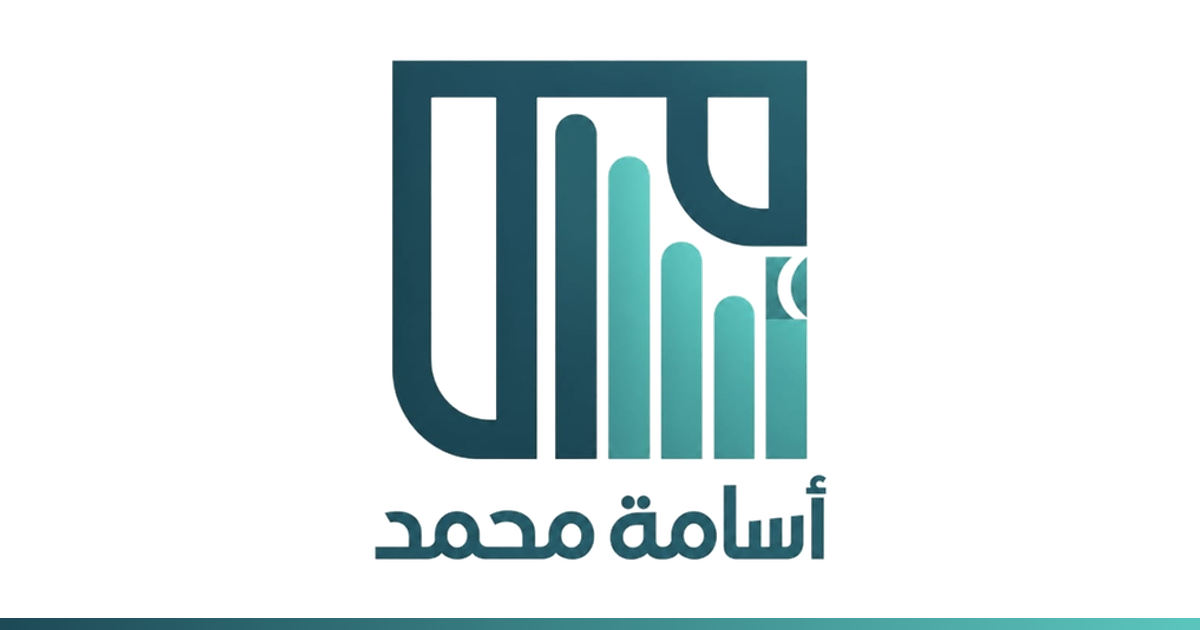
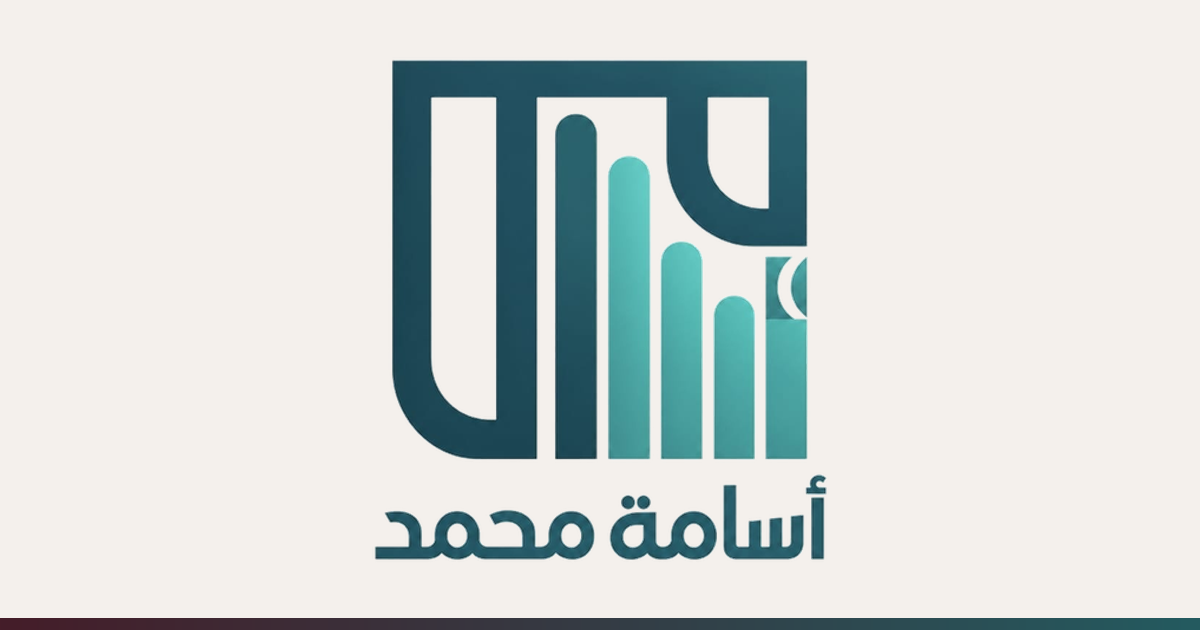
New identity: burgundy and deep peacock palette

Changed region(s): [[0.0, 0.9651, 1.0, 1.0]]

diff --git a/index.html b/index.html
@@ -9,37 +9,37 @@
 <meta property="og:description" content="مواقع، تطبيقات، أنظمة، منصات، تصميم ومونتاج.">
 <meta property="og:type" content="website">
 <meta property="og:site_name" content="أسامة محمد البتيت">
-<meta property="og:image" content="https://osamah-cv.web.app/og.png?v=2">
-<meta property="og:image:secure_url" content="https://osamah-cv.web.app/og.png?v=2">
+<meta property="og:image" content="https://osamah-cv.web.app/og.png?v=3">
+<meta property="og:image:secure_url" content="https://osamah-cv.web.app/og.png?v=3">
 <meta property="og:image:type" content="image/png">
 <meta property="og:image:width" content="1200">
 <meta property="og:image:height" content="630">
 <meta property="og:image:alt" content="شعار أسامة محمد">
-<meta name="twitter:image" content="https://osamah-cv.web.app/og.png?v=2">
+<meta name="twitter:image" content="https://osamah-cv.web.app/og.png?v=3">
 <link rel="apple-touch-icon" href="og-square.png">
 <meta property="og:url" content="https://osamah-cv.web.app/">
 <meta name="twitter:card" content="summary_large_image">
-<meta name="theme-color" content="#1E4A57">
+<meta name="theme-color" content="#451D29">
 <link rel="icon" type="image/png" href="logo-mark.png">
 <link rel="preconnect" href="https://fonts.googleapis.com">
 <link rel="preconnect" href="https://fonts.gstatic.com" crossorigin>
 <link href="https://fonts.googleapis.com/css2?family=Tajawal:wght@400;500;700;800&family=Inter:wght@400;500;600;800&display=swap" rel="stylesheet">
 <style>
 :root{
-  --bg:#F4F8F8; --surface:#FFFFFF; --surface-2:#EAF2F2; --text:#173E4A; --muted:#536C73;
-  --line:#D7E4E5; --brand:#1E4A57; --accent:#2F928F; --accent-soft:#E0F2F1; --gold:#2B6571; --accent-2:#5CC6BE;
-  --shadow:0 10px 30px rgba(30,74,87,.09);
+  --bg:#F4F0EC; --surface:#FFFFFF; --surface-2:#F1E8E6; --text:#3A1822; --muted:#6F5A60;
+  --line:#E7D9D8; --brand:#451D29; --accent:#682B3B; --accent-soft:#F3E7E9; --gold:#245B60; --accent-2:#925064;
+  --shadow:0 10px 30px rgba(69,29,41,.10);
 }
 @media (prefers-color-scheme:dark){
   :root:not([data-theme="light"]){
-    --bg:#0A181D; --surface:#10242B; --surface-2:#152E36; --text:#E6F1F1; --muted:#97B0B4;
-    --line:#21404A; --brand:#E6F1F1; --accent:#5CC6BE; --accent-soft:#123A3C; --gold:#8ED8D1; --accent-2:#5CC6BE;
+    --bg:#1A0E13; --surface:#25141B; --surface-2:#2F1A22; --text:#F3ECEB; --muted:#BCA6AC;
+    --line:#40262F; --brand:#F3ECEB; --accent:#C98A9C; --accent-soft:#3A1E28; --gold:#9CC0C0; --accent-2:#925064;
     --shadow:0 10px 30px rgba(0,0,0,.35);
   }
 }
 :root[data-theme="dark"]{
-  --bg:#0A181D; --surface:#10242B; --surface-2:#152E36; --text:#E6F1F1; --muted:#97B0B4;
-  --line:#21404A; --brand:#E6F1F1; --accent:#5CC6BE; --accent-soft:#123A3C; --gold:#8ED8D1; --accent-2:#5CC6BE;
+  --bg:#1A0E13; --surface:#25141B; --surface-2:#2F1A22; --text:#F3ECEB; --muted:#BCA6AC;
+  --line:#40262F; --brand:#F3ECEB; --accent:#C98A9C; --accent-soft:#3A1E28; --gold:#9CC0C0; --accent-2:#925064;
   --shadow:0 10px 30px rgba(0,0,0,.35);
 }
 *{box-sizing:border-box;margin:0;padding:0}
@@ -107,7 +107,7 @@ section.s{padding:56px 0;scroll-margin-top:70px}
 .tl{position:relative;display:grid;gap:16px;padding-inline-start:26px}
 .tl::before{content:"";position:absolute;inset-inline-start:7px;top:8px;bottom:8px;width:2px;background:linear-gradient(180deg,var(--accent),var(--line))}
 .tl .card{position:relative;cursor:pointer;transition:.25s}
-.tl .card::before{content:"";position:absolute;inset-inline-start:-26px;top:26px;width:16px;height:16px;border-radius:50%;background:linear-gradient(145deg,#1E4A57,#5CC6BE);border:3px solid var(--bg);box-shadow:0 0 0 2px var(--accent)}
+.tl .card::before{content:"";position:absolute;inset-inline-start:-26px;top:26px;width:16px;height:16px;border-radius:50%;background:linear-gradient(145deg,#682B3B,#925064);border:3px solid var(--bg);box-shadow:0 0 0 2px var(--accent)}
 .tl .card:hover{border-color:var(--accent);box-shadow:0 18px 36px -18px color-mix(in srgb,var(--accent) 45%,transparent)}
 .tl-h{display:flex;justify-content:space-between;gap:12px;flex-wrap:wrap;align-items:baseline}
 .tl h3{font-size:19px}
@@ -144,18 +144,18 @@ section.s{padding:56px 0;scroll-margin-top:70px}
 .projects{display:grid;grid-template-columns:repeat(auto-fill,minmax(300px,1fr));gap:16px}
 .projects{grid-template-columns:repeat(auto-fill,minmax(min(320px,100%),1fr));gap:20px}
 .pj{min-width:0}
-.pj{--g1:#1E4A57;--g2:#2F928F;--glow:#5CC6BE;position:relative;overflow:hidden;isolation:isolate;display:flex;flex-direction:column;gap:12px;min-height:270px;padding:26px;border:0;border-radius:24px;color:#fff;
+.pj{--g1:#451D29;--g2:#682B3B;--glow:#925064;position:relative;overflow:hidden;isolation:isolate;display:flex;flex-direction:column;gap:12px;min-height:270px;padding:26px;border:0;border-radius:24px;color:#fff;
   background:radial-gradient(100% 80% at var(--mx,85%) var(--my,0%),color-mix(in srgb,var(--glow) 28%,transparent),transparent 60%),linear-gradient(150deg,var(--g1) 0%,var(--g2) 100%);
   box-shadow:0 18px 40px -18px color-mix(in srgb,var(--g1) 80%,transparent),inset 0 1px 0 rgba(255,255,255,.18);transition:transform .35s cubic-bezier(.2,.8,.2,1),box-shadow .35s}
 .pj::before{content:"";position:absolute;inset:0;border-radius:inherit;padding:1px;background:linear-gradient(150deg,rgba(255,255,255,.55),rgba(255,255,255,.05) 40%,rgba(255,255,255,.25));-webkit-mask:linear-gradient(#000 0 0) content-box,linear-gradient(#000 0 0);-webkit-mask-composite:xor;mask-composite:exclude;pointer-events:none}
 .pj::after{content:"";position:absolute;inset:0;z-index:-1;background-image:linear-gradient(rgba(255,255,255,.06) 1px,transparent 1px),linear-gradient(90deg,rgba(255,255,255,.06) 1px,transparent 1px);background-size:26px 26px;-webkit-mask:radial-gradient(80% 70% at 100% 0%,#000,transparent 70%);mask:radial-gradient(80% 70% at 100% 0%,#000,transparent 70%)}
 html[dir="rtl"] .pj::after{-webkit-mask:radial-gradient(80% 70% at 0% 0%,#000,transparent 70%);mask:radial-gradient(80% 70% at 0% 0%,#000,transparent 70%)}
 .pj:hover{transform:translateY(-6px);box-shadow:0 28px 50px -18px color-mix(in srgb,var(--g1) 90%,transparent),inset 0 1px 0 rgba(255,255,255,.25)}
-.pj.g1{--g1:#0F2B33;--g2:#1E4A57;--glow:#2F928F}
-.pj.g2{--g1:#1E4A57;--g2:#5CC6BE;--glow:#7FD3CC}
-.pj.g3{--g1:#13323C;--g2:#2B6571;--glow:#3FA9A4}
-.pj.g4{--g1:#2B6571;--g2:#3FA9A4;--glow:#7FD3CC}
-.pj.feat{grid-column:span 2;min-height:300px;--g1:#0B2129;--g2:#1E4A57;--glow:#5CC6BE}
+.pj.g1{--g1:#2B111A;--g2:#451D29;--glow:#682B3B}
+.pj.g2{--g1:#183F43;--g2:#245B60;--glow:#6D9293}
+.pj.g3{--g1:#451D29;--g2:#925064;--glow:#B47888}
+.pj.g4{--g1:#245B60;--g2:#6D9293;--glow:#DCE8E5}
+.pj.feat{grid-column:span 2;min-height:300px;--g1:#2B111A;--g2:#451D29;--glow:#925064}
 .pj.feat h3{font-size:26px}
 .pj.feat p{font-size:16px;max-width:620px}
 .pj .wm{position:absolute;bottom:-26px;inset-inline-end:-18px;width:150px;height:150px;opacity:.12;z-index:-1;transform:rotate(-12deg);transition:transform .5s,opacity .5s}
@@ -170,24 +170,24 @@ html[dir="rtl"] .pj::after{-webkit-mask:radial-gradient(80% 70% at 0% 0%,#000,tr
 .pj p{color:rgba(255,255,255,.82);font-size:14.5px;flex:1}
 .pj .bot{display:flex;justify-content:space-between;align-items:center;gap:10px;flex-wrap:wrap}
 .pj .visit{display:inline-flex;align-items:center;gap:6px;font-size:13.5px;font-weight:800;color:var(--g1);padding:8px 16px;border-radius:30px;background:#fff;box-shadow:0 6px 18px -6px rgba(0,0,0,.45);transition:.25s}
-.pj .visit:hover{transform:translateY(-2px);background:#E8FBF8;color:#0B2129}
+.pj .visit:hover{transform:translateY(-2px);background:#F4ECEB;color:#451D29}
 .pj .priv{font-size:12.5px;font-weight:700;color:#fff;padding:7px 13px;border-radius:30px;background:rgba(0,0,0,.18);border:1px dashed rgba(255,255,255,.4);cursor:help}
 .tags{display:flex;flex-wrap:wrap;gap:6px}
 .tags span{font:600 11.5px Inter,Tajawal;padding:3px 10px;border-radius:30px;background:rgba(255,255,255,.12);color:#fff;border:1px solid rgba(255,255,255,.16)}
 .privnote{margin-top:18px;font-size:13.5px;color:var(--muted);text-align:center}
 
 /* premium "lux" cards — same language as the project cards */
-.lux{--g1:#1E4A57;--g2:#2F928F;--glow:#5CC6BE;position:relative;isolation:isolate;border:0!important;border-radius:24px;color:#fff;
+.lux{--g1:#451D29;--g2:#682B3B;--glow:#925064;position:relative;isolation:isolate;border:0!important;border-radius:24px;color:#fff;
   background:radial-gradient(100% 80% at var(--mx,85%) var(--my,0%),color-mix(in srgb,var(--glow) 26%,transparent),transparent 60%),linear-gradient(150deg,var(--g1) 0%,var(--g2) 100%);
   box-shadow:0 18px 40px -18px color-mix(in srgb,var(--g1) 80%,transparent),inset 0 0 0 1px rgba(255,255,255,.16),inset 0 1px 0 rgba(255,255,255,.28);transition:transform .35s cubic-bezier(.2,.8,.2,1),box-shadow .35s}
 .lux::after{content:"";position:absolute;inset:0;border-radius:inherit;z-index:-1;pointer-events:none;background-image:linear-gradient(rgba(255,255,255,.06) 1px,transparent 1px),linear-gradient(90deg,rgba(255,255,255,.06) 1px,transparent 1px);background-size:26px 26px;-webkit-mask:radial-gradient(70% 70% at 100% 0%,#000,transparent 70%);mask:radial-gradient(70% 70% at 100% 0%,#000,transparent 70%)}
 html[dir="rtl"] .lux::after{-webkit-mask:radial-gradient(70% 70% at 0% 0%,#000,transparent 70%);mask:radial-gradient(70% 70% at 0% 0%,#000,transparent 70%)}
 .lux:hover{transform:translateY(-5px);box-shadow:0 28px 50px -18px color-mix(in srgb,var(--g1) 90%,transparent),inset 0 0 0 1px rgba(255,255,255,.24),inset 0 1px 0 rgba(255,255,255,.32)}
-.lux.g1{--g1:#0F2B33;--g2:#1E4A57;--glow:#2F928F}
-.lux.g2{--g1:#1E4A57;--g2:#4DB8B1;--glow:#7FD3CC}
-.lux.g3{--g1:#13323C;--g2:#2B6571;--glow:#3FA9A4}
-.lux.g4{--g1:#2B6571;--g2:#3FA9A4;--glow:#7FD3CC}
-.lux.g0{--g1:#0B2129;--g2:#1E4A57;--glow:#5CC6BE}
+.lux.g1{--g1:#2B111A;--g2:#451D29;--glow:#682B3B}
+.lux.g2{--g1:#183F43;--g2:#245B60;--glow:#6D9293}
+.lux.g3{--g1:#451D29;--g2:#925064;--glow:#B47888}
+.lux.g4{--g1:#245B60;--g2:#6D9293;--glow:#DCE8E5}
+.lux.g0{--g1:#2B111A;--g2:#451D29;--glow:#925064}
 .glass{background:linear-gradient(145deg,rgba(255,255,255,.28),rgba(255,255,255,.06))!important;border:1px solid rgba(255,255,255,.28);color:#fff!important;box-shadow:0 8px 20px -8px rgba(0,0,0,.4)}
 .lux .wm{position:absolute;bottom:-24px;inset-inline-end:-14px;width:140px;height:140px;opacity:.1;z-index:-1;transform:rotate(-12deg);transition:transform .5s,opacity .5s;pointer-events:none}
 .lux .wm svg{width:100%;height:100%;stroke-width:1.3}
@@ -205,10 +205,10 @@ html[dir="rtl"] .lux::after{-webkit-mask:radial-gradient(70% 70% at 0% 0%,#000,t
 .tl .lux{cursor:pointer}
 .tl .lux:hover{border-color:transparent}
 .tl .lux h3{color:#fff}
-.tl .lux .where{color:#9BE6DF}
+.tl .lux .where{color:#F0DCE1}
 .tl .lux .when{background:rgba(255,255,255,.14);border:1px solid rgba(255,255,255,.22);color:#fff}
 .tl .lux li{color:rgba(255,255,255,.86)}
-.tl .lux li::marker{color:#9BE6DF}
+.tl .lux li::marker{color:#F0DCE1}
 .tl .lux .tg{background:rgba(255,255,255,.14);border-color:rgba(255,255,255,.55);color:#fff;animation-name:pingw}
 .tl .lux .tg:hover{background:#fff;color:var(--g1)}
 .tl .lux.open .tg{background:transparent;border-color:rgba(255,255,255,.25);color:rgba(255,255,255,.75)}
@@ -223,13 +223,13 @@ html[dir="rtl"] .lux::after{-webkit-mask:radial-gradient(70% 70% at 0% 0%,#000,t
 .edu.lux h3{color:#fff;font-size:21px}
 .edu.lux p{color:rgba(255,255,255,.82)}
 .edu.lux .ic{width:60px;height:60px;border-radius:16px}
-.lang.lux .lg-row small{color:#9BE6DF;font-weight:700}
+.lang.lux .lg-row small{color:#F0DCE1;font-weight:700}
 .lang.lux .meter{background:rgba(255,255,255,.14);height:9px}
-.lang.lux .meter i{background:linear-gradient(90deg,#9BE6DF,#fff)!important;box-shadow:0 0 12px rgba(155,230,223,.6)}
-html[dir="rtl"] .lang.lux .meter i{background:linear-gradient(270deg,#9BE6DF,#fff)!important}
+.lang.lux .meter i{background:linear-gradient(90deg,#F0DCE1,#fff)!important;box-shadow:0 0 12px rgba(240,220,225,.55)}
+html[dir="rtl"] .lang.lux .meter i{background:linear-gradient(270deg,#F0DCE1,#fff)!important}
 @media print{.lux{color:#000!important;background:#fff!important;box-shadow:none}.lux *{color:#222!important}.lux::after,.lux .wm{display:none}}
-.tab.on{background:linear-gradient(135deg,#1E4A57,#2F928F);border-color:transparent;color:#fff}
-.contact{background:radial-gradient(90% 120% at 100% 0%,rgba(92,198,190,.45),transparent 55%),linear-gradient(140deg,#0B2129,#1E4A57 60%,#2B6571)!important;color:#fff!important;position:relative;overflow:hidden}
+.tab.on{background:linear-gradient(135deg,#451D29,#682B3B);border-color:transparent;color:#fff}
+.contact{background:radial-gradient(90% 120% at 100% 0%,rgba(146,80,100,.45),transparent 55%),linear-gradient(140deg,#2B111A,#451D29 55%,#682B3B)!important;color:#fff!important;position:relative;overflow:hidden}
 @media (max-width:860px){.pj.feat{grid-column:auto}.pj.feat h3{font-size:22px}}
 @media print{.pj{color:#000;background:#fff!important;border:1px solid #ccc}.pj p,.tags span{color:#333}.pj .wm,.pj::after{display:none}}
 
